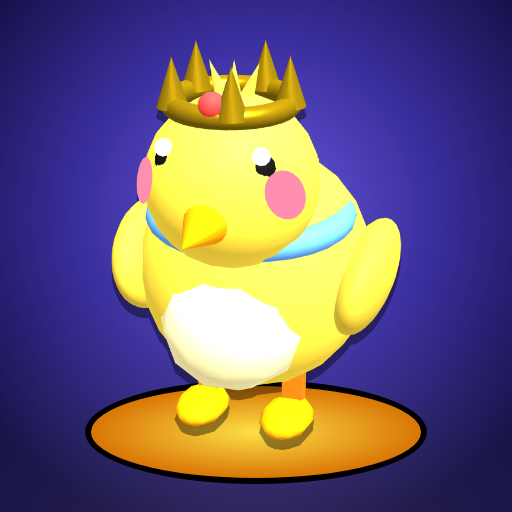
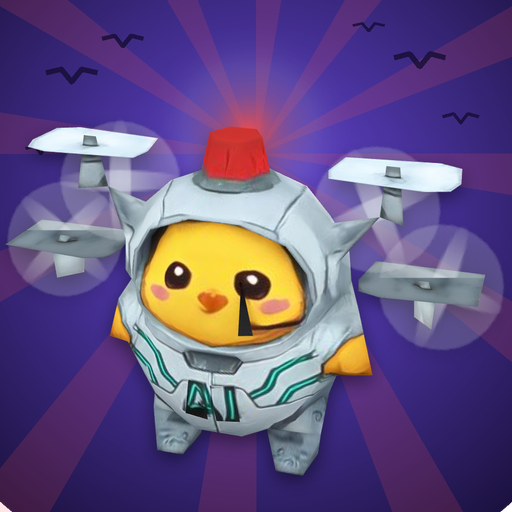
앱 아이콘을 마스코트 AI(사이렌 드론 병아리)로 교체
Claude-Session: https://claude.ai/code/session_01WdwmgQ1X9No8TXxhVpqQwz

diff --git a/index.html b/index.html
@@ -8,7 +8,7 @@
 <meta name="theme-color" content="#2a2370">
 <link rel="manifest" href="manifest.webmanifest">
 <link rel="icon" type="image/png" href="icons/icon-192.png">
-<link rel="apple-touch-icon" href="icons/icon-192.png">
+<link rel="apple-touch-icon" href="icons/apple-touch-180.png">
 <meta name="mobile-web-app-capable" content="yes">
 <meta name="apple-mobile-web-app-capable" content="yes">
 <meta name="apple-mobile-web-app-title" content="새떼 주의보">

diff --git a/CLAUDE.md b/CLAUDE.md
@@ -15,7 +15,7 @@
 - 🐣 마스코트 'AI'(드론 메카 병아리) 등장 늘리기: 튜토리얼 안내원, 첫 승리·조합 스킬 해금 축하, 로비에 둥실 떠 있기, 광장 NPC. 정식 3D 모델은 이미 있음(`assets/models/ai_mascot.glb`).
 - 🎬 홍보 영상: 초안 완성(2026-11-10, 약 30초, 가로·세로). 만드는 법 `tools/trailer/README.md`(가상 시계 프레임 녹화 + 자막 PNG + ffmpeg + 칩튠). 다듬기는 나중에.
 - 💰 수익 구조(단계별 안): v1.0 무료·광고 없음 → 사람이 모이면 보상형 광고(코인 2배) → 꾸미기 상점·광고 제거·후원 팩. 페이투윈·랜덤 뽑기는 안 함. 광고 넣으면 개인정보처리방침·데이터 보안 설문 수정.
-- 📲 구글 플레이 출시: 단계별 안내 `assets/store/RELEASE_CHECKLIST.md`. ⚠ assetlinks.json은 도메인 맨 위(`ddarkzi.github.io/.well-known/`)여야 해서 사용자 사이트 저장소 `DDarkZi.github.io`가 필요(+`.nojekyll`). Play 앱 서명 키 SHA-256도 함께 넣기. 아이콘 교체 후보 `assets/store/icon-candidate-AI-512.png`(사용자 결정 대기).
+- 📲 구글 플레이 출시: 단계별 안내 `assets/store/RELEASE_CHECKLIST.md`. ⚠ assetlinks.json은 도메인 맨 위(`ddarkzi.github.io/.well-known/`)여야 해서 사용자 사이트 저장소 `DDarkZi.github.io`가 필요(+`.nojekyll`). Play 앱 서명 키 SHA-256도 함께 넣기. 앱 아이콘 = 마스코트 AI(2026-11-10 교체, 원본 렌더는 ai_mascot.glb + 경고 빛줄기·새떼 실루엣 배경).
 - 🧠 AI: 안정형이 아직 약간 약함(8%), 평균 게임 시간 약 15분(사용자: 일단 그대로).
 - 🦤 Tripo로 만든 도도새 3D: GLB 받기 + Tripo 무료 약관(상업 이용) 확인 필요.
 

diff --git a/assets/store/RELEASE_CHECKLIST.md b/assets/store/RELEASE_CHECKLIST.md
@@ -5,7 +5,7 @@
 
 ## ✅ 이미 준비된 것
 - 스토어 글: `assets/store/listing.md` (이름·짧은 설명·자세한 설명·등급 설문 참고)
-- 아이콘 512×512: `assets/store/icon-512-store.png` (새 후보: `icon-candidate-AI-512.png`)
+- 아이콘 512×512: `assets/store/icon-512-store.png` — 마스코트 AI(사이렌 드론 병아리)
 - 그래픽 이미지 1024×500: `assets/store/feature-graphic-1024x500.png`
 - 휴대전화 스크린샷 6장(1080×1920): `assets/store/screenshots/`
 - 홍보 영상: 가로 `trailer_16x9.mp4` / 세로 `trailer_vertical_9x16.mp4` (유튜브에 올려 링크 사용)

diff --git a/assets/store/listing.md b/assets/store/listing.md
@@ -56,7 +56,6 @@
 
 ## 그래픽 파일
 - 아이콘 512×512 (스토어용, 투명도 포함 32비트): assets/store/icon-512-store.png
-  - 새 아이콘 후보(마스코트 AI): assets/store/icon-candidate-AI-512.png
 - 그래픽 이미지 1024×500: assets/store/feature-graphic-1024x500.png
 - 휴대전화 스크린샷 1080×1920: assets/store/screenshots/01~06
 
